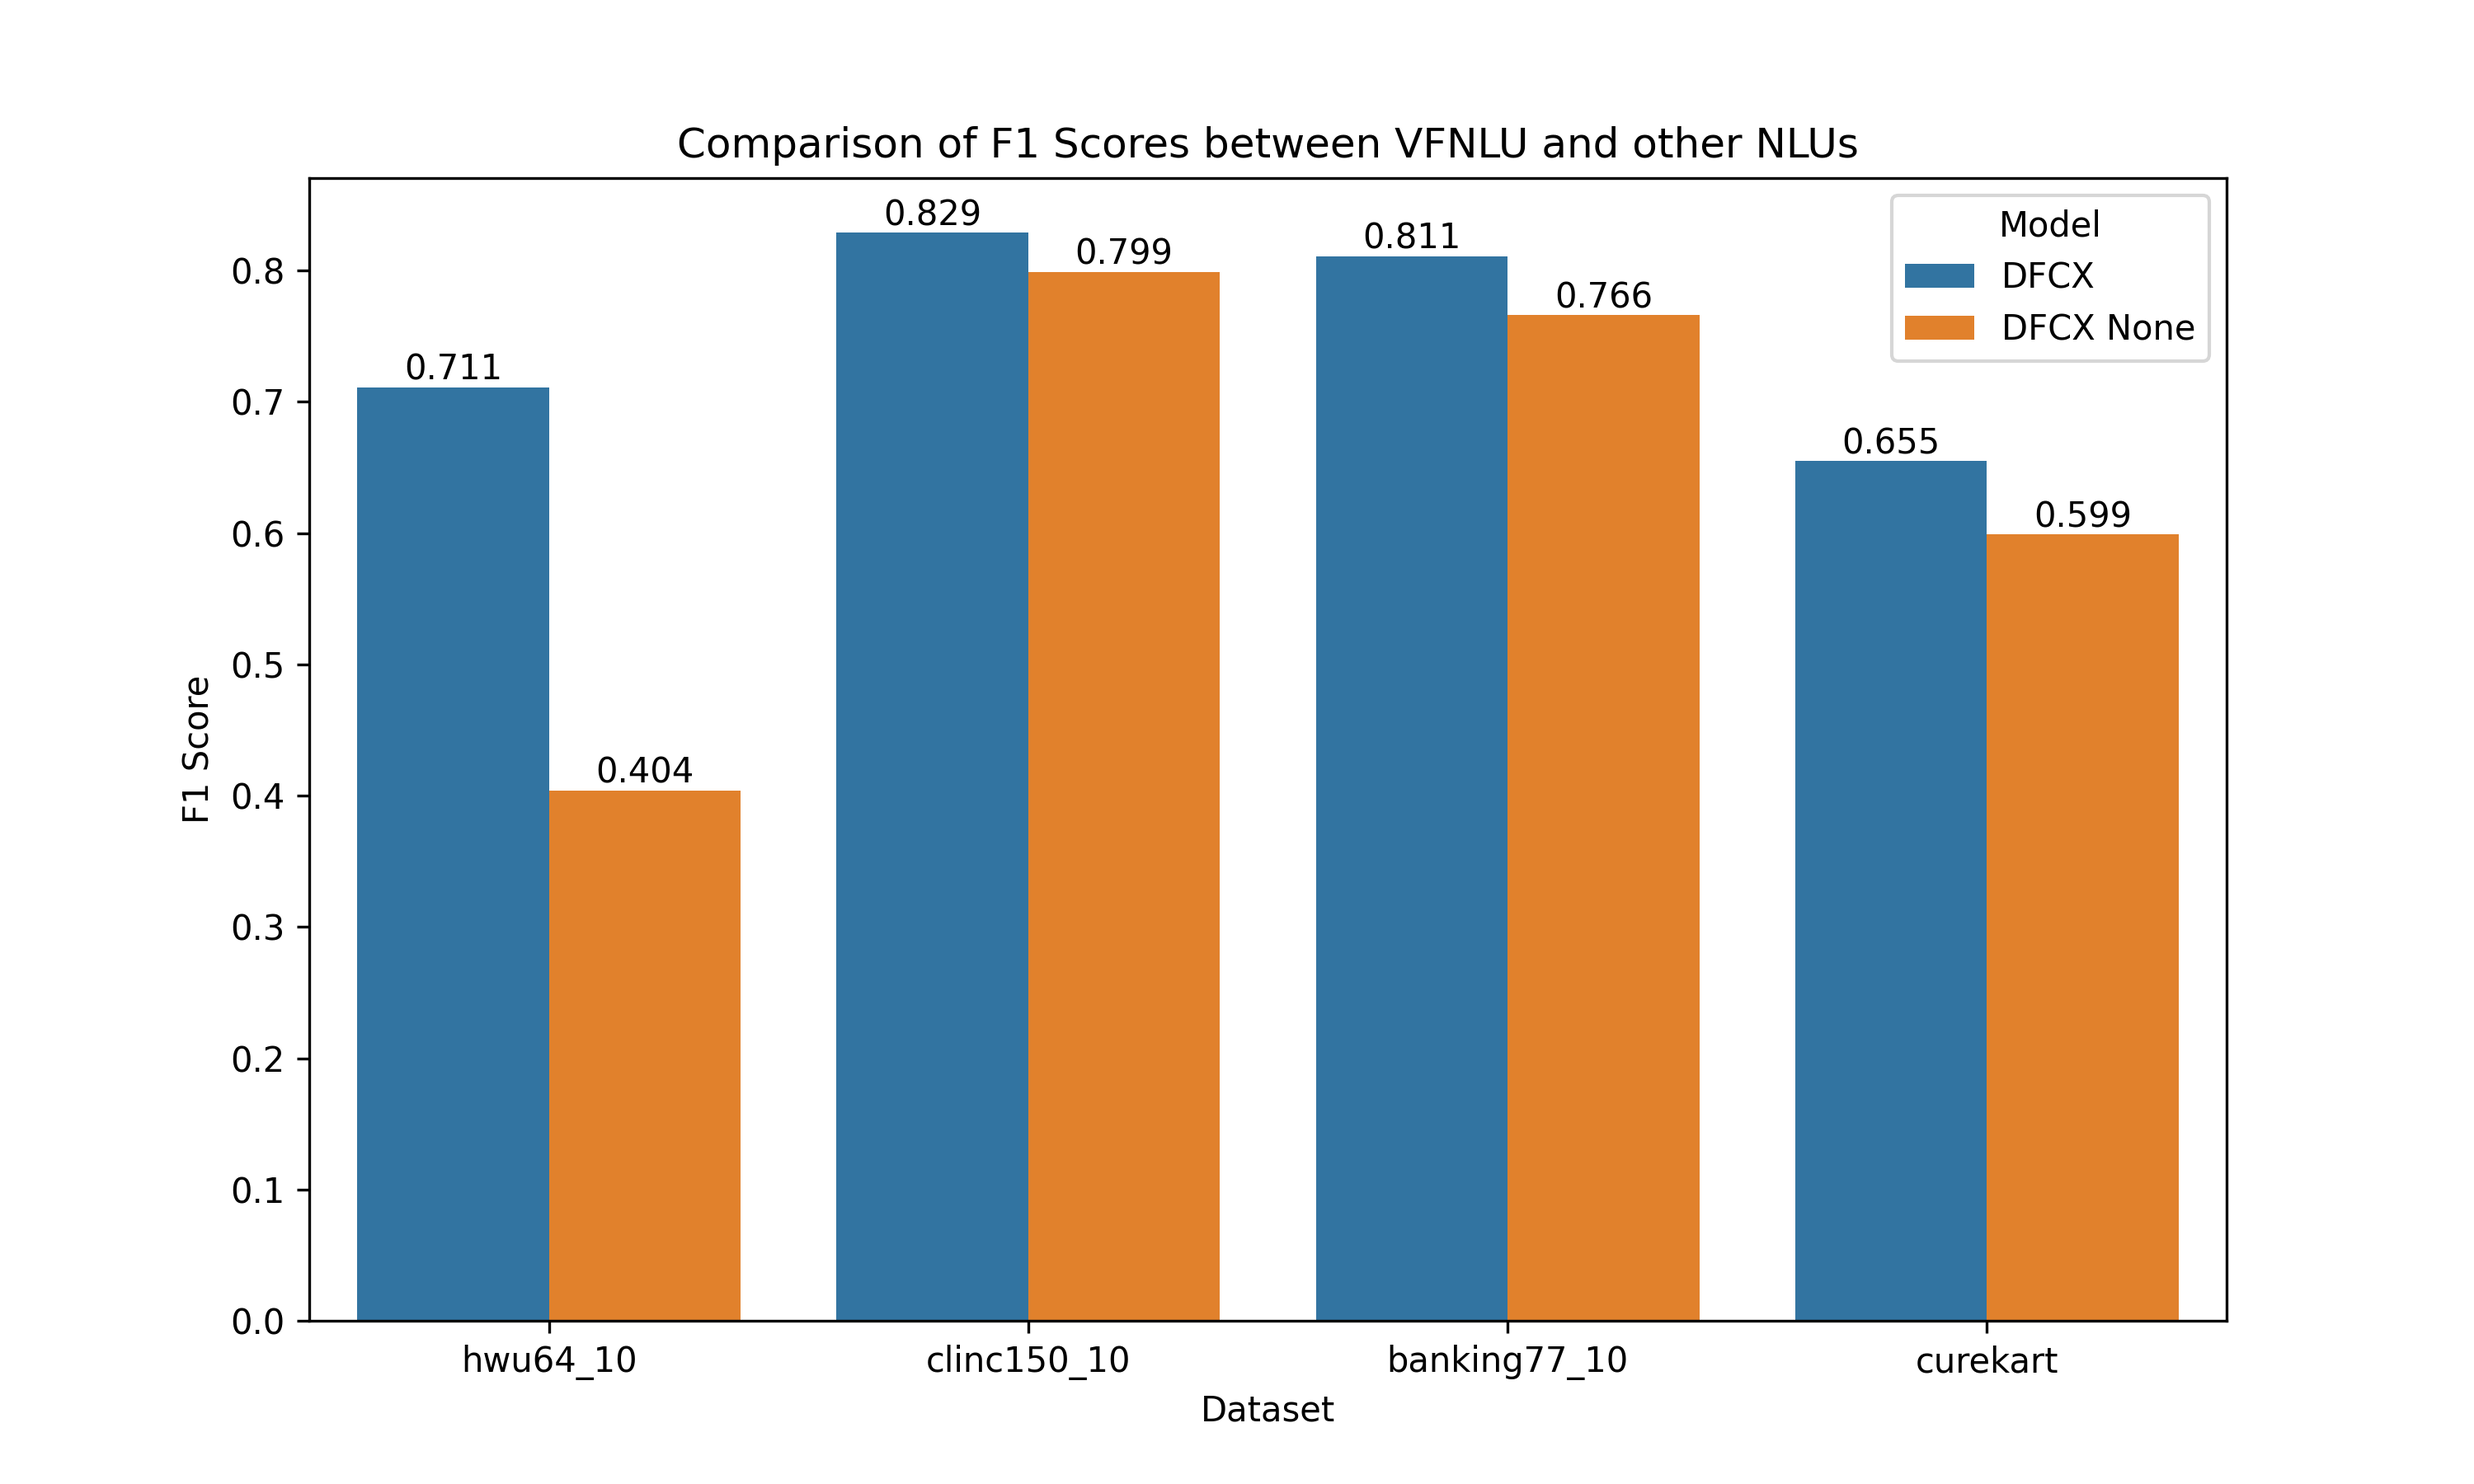
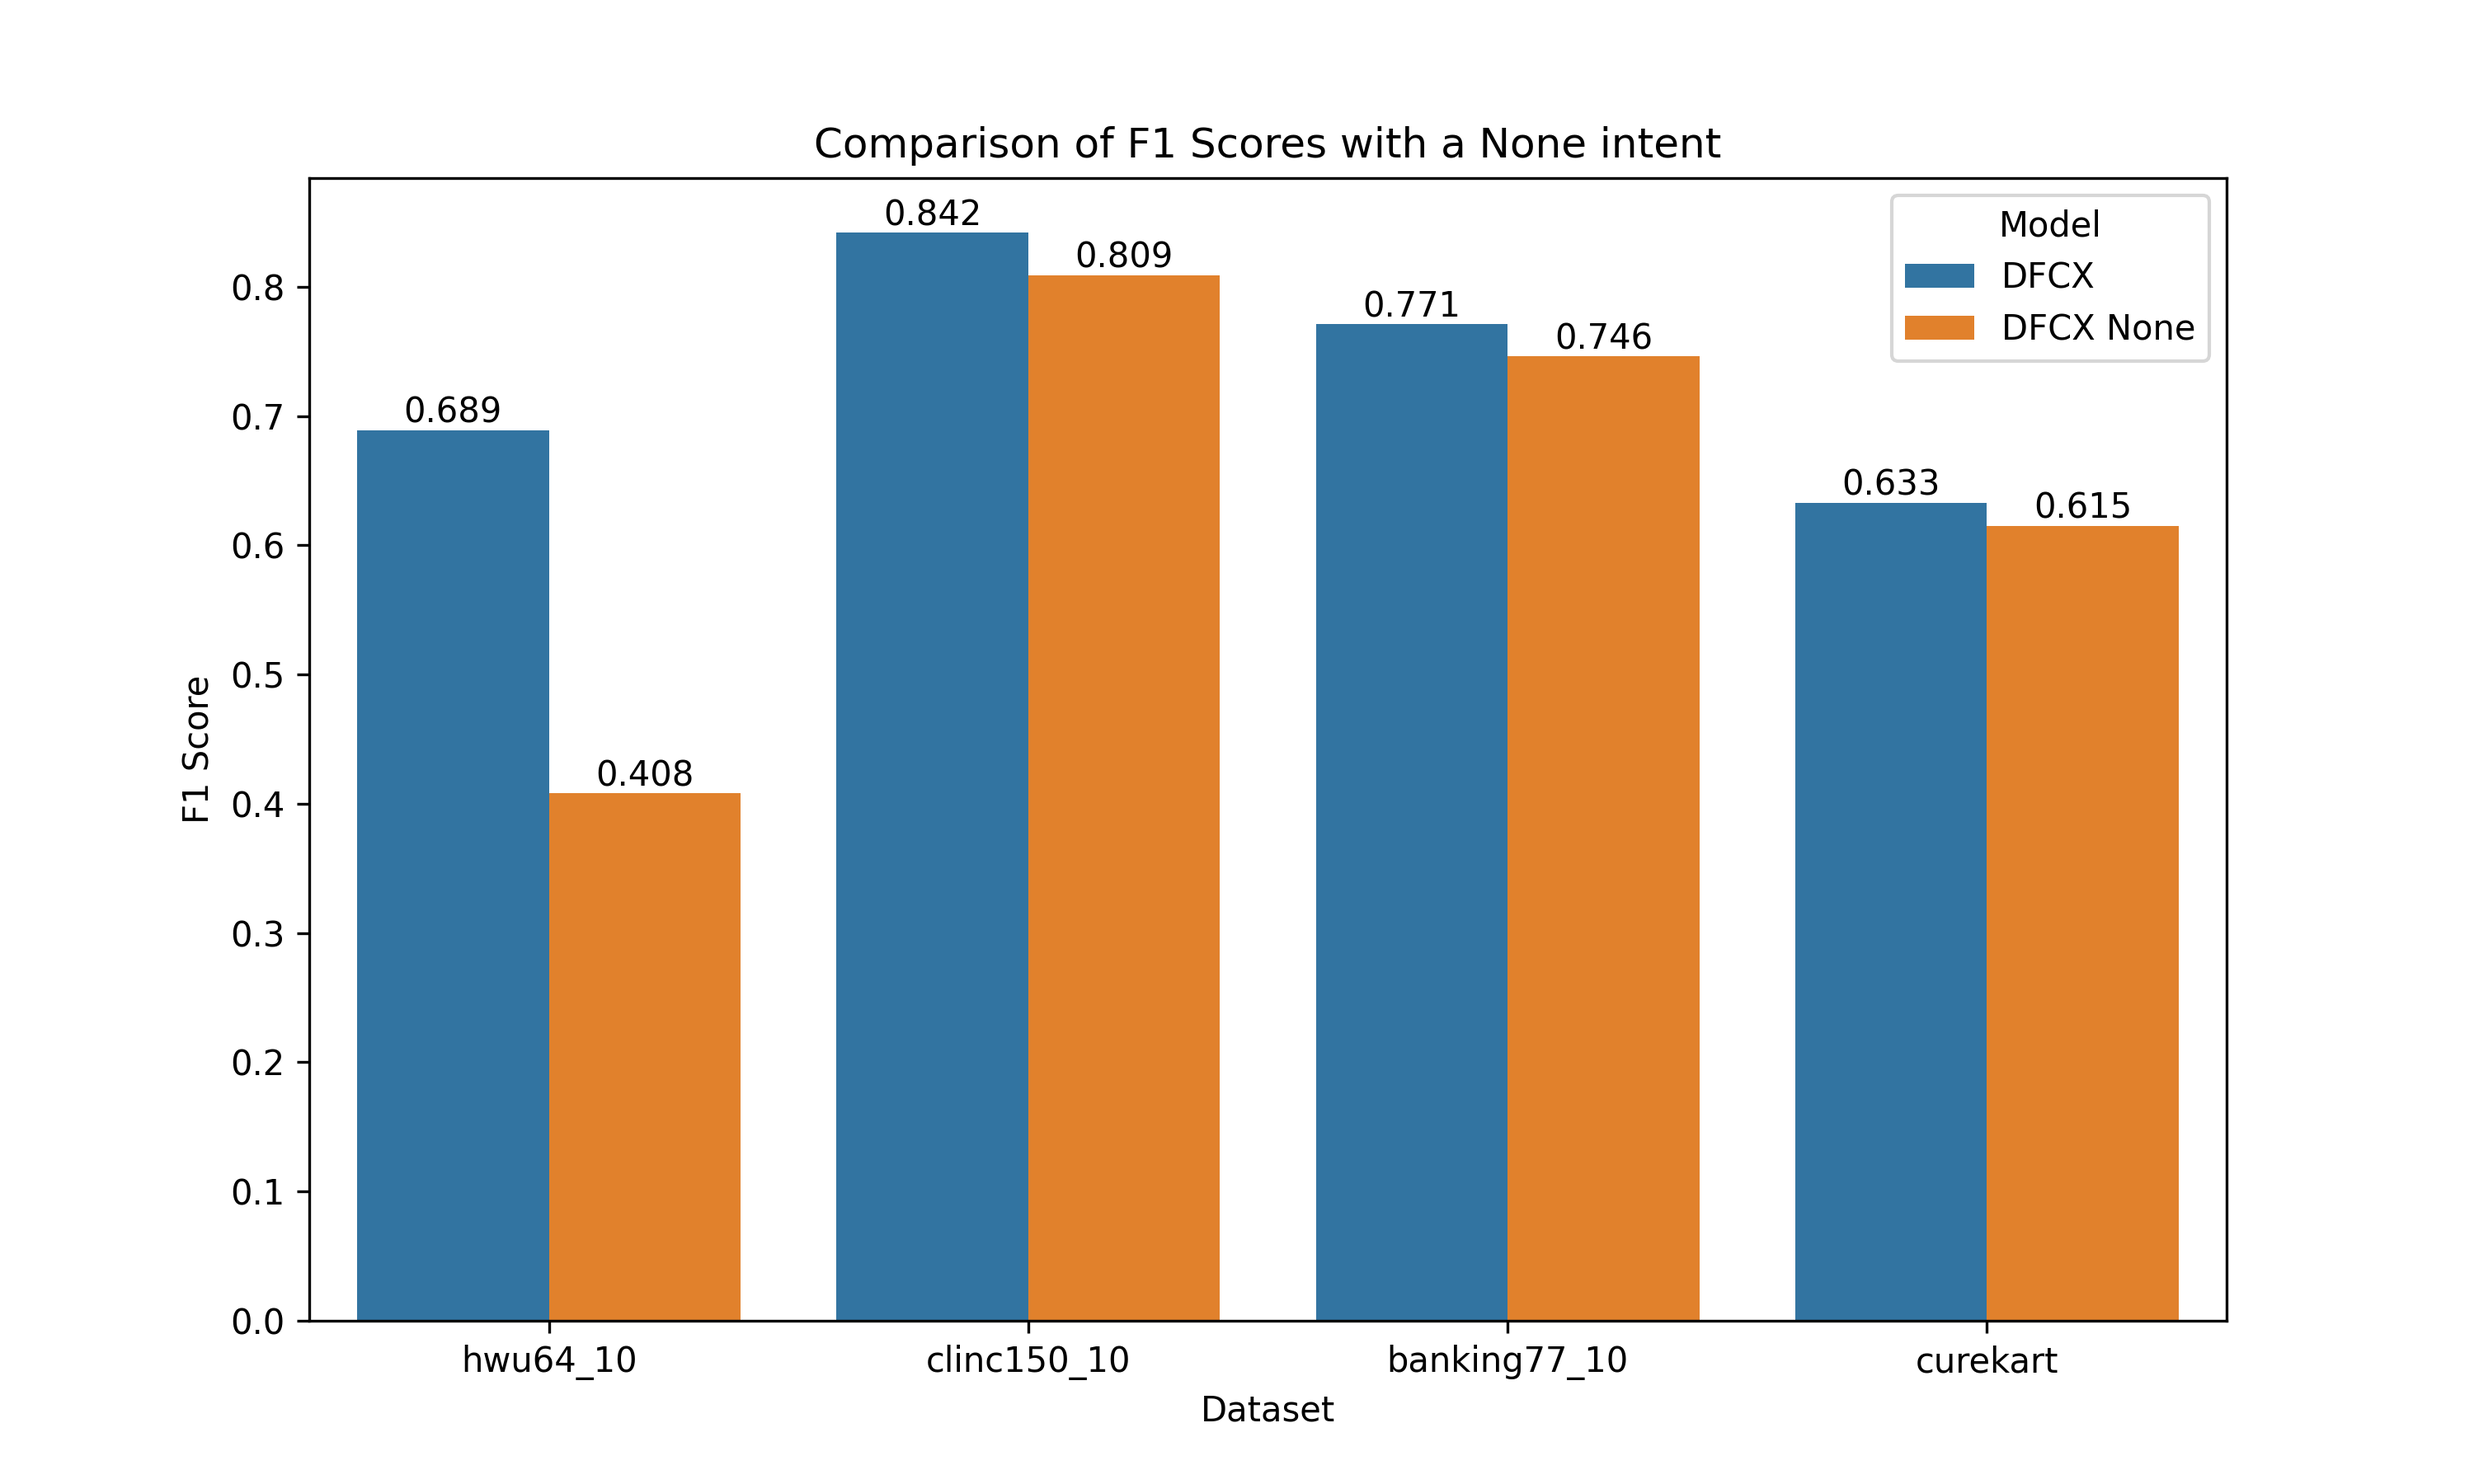
fixed benchmarks

diff --git a/src/benchmarks/compare_benchmarks.py b/src/benchmarks/compare_benchmarks.py
@@ -22,7 +22,7 @@ rasa_f1_scores, rasa_accuracy_scores = run_rasa_benchmark(datasets,none_tests=Fa
 rasa_f1_scores_none, rasa_accuracy_scores_none = run_rasa_benchmark(datasets,none_tests=True,local_result_load=True, retrain=False)
 vf_f1_scores_none, vf_accuracy_scores_none = run_benchmark_vfnlu(datasets,local_result_load=True,none_tests=True)
 vf_f1_scores, vf_accuracy_scores = run_benchmark_vfnlu(datasets,local_result_load=True,none_tests=False)
-df_f1_scores, df_accuracy_scores = run_benchmark_dialogflow_cx(datasets,agent_ids=df_agent_ids,local_result_load=False)
+df_f1_scores, df_accuracy_scores = run_benchmark_dialogflow_cx(datasets,agent_ids=df_agent_ids,local_result_load=True)
 df_f1_scores_none, df_accuracy_scores_none = run_benchmark_dialogflow_cx(datasets,agent_ids=df_agent_none_ids,local_result_load=True,is_none=True)
 
 

diff --git a/src/benchmarks/DialogflowCXTest/run_dialogflow_benchmark.py b/src/benchmarks/DialogflowCXTest/run_dialogflow_benchmark.py
@@ -75,8 +75,8 @@ def run_benchmark_dialogflow_cx(datasets=None,agent_ids=None, local_result_load=
 		accuracy_scores = [0.4141132776230269, 0.7817777777777778, 0.7386363636363636, 0.7777777777777778]
 		return f1_scores, accuracy_scores
 	elif local_result_load:
-		f1_scores = [0.6885960813594082, 0.8292905394131249, 0.8114345728752027,0.6552839455156556]
-		accuracy_scores = [0.6555246053853296, 0.805820928682515, 0.7935064935064935,0.7930283224400871 ]
+		f1_scores = [0.6885960813594082, 0.8421294611426569, 0.7714419376222091,0.6328873741110872]
+		accuracy_scores = [0.6555246053853296, 0.821373028215952, 0.7474025974025974,0.7995642701525054]
 		return f1_scores, accuracy_scores
 
 	f1_scores = []

diff --git a/src/benchmarks/README.md b/src/benchmarks/README.md
@@ -60,14 +60,14 @@ Rasa shows minimal changes in accuracy between the base dataset and one with exp
 | None intent %        | 1.6%  | 0.4%     | 0.4%      | 3.9%     |
 | Unexplained Variance | -0.3% | -0.2%    | - 3.1%    | -2.1%    |
 
-### Comparison DFCX with Enriched None (Fallback) intent 
-Dialogflow CX is quite sensitive when enriching their built in None Intent (called Fallback). For DFCX many of the mismatches seem to be redirected to the None intent which is an interesting pattern.
+### Comparison DFCX with Enriched Default Negative Intent 
+Dialogflow CX is quite sensitive when enriching their built in None Intent (called Default Negative Intent). For DFCX many of the mismatches seem to be redirected to the None intent which is an interesting pattern.
 ![DFCXNone](figures/DFCX_accuracy.png)
 
 | Dataset              | HWU64  | CLINC150 | Banking77 | CureKart |
-|----------------------|--------|--------|-----------|----------|
-| DFCX Base            | 68.1%  | 80.6%  | 79.4%     | 79.3%    |
-| DFCX None            | 41.4%  | 77.6%  | 74.6%     | 77.1%    |
-| Difference           | 26.7%  | 3.0%   | 4.8%      | 2.1%     |
-| None intent %        | 40.3%  | 16.9%  | 8.6%      | 8.9%     |
-| Unexplained Variance | -13.4% | -13.9% | -3.8%     | -6.8%    |
+|----------------------|--------|----------|-----------|----------|
+| DFCX Base            | 68.5%  | 80.6%    | 79.4%     | 79.3%    |
+| DFCX None            | 41.2%  | 77.6%    | 74.6%     | 77.1%    |
+| Difference           | 27.3%  | 3.0%     | 4.8%      | 2.1%     |
+| None intent %        | 40.3%  | 16.9%    | 8.6%      | 8.9%     |
+| Unexplained Variance | -13.0% | -13.9%   | -3.8%     | -6.8%    |
